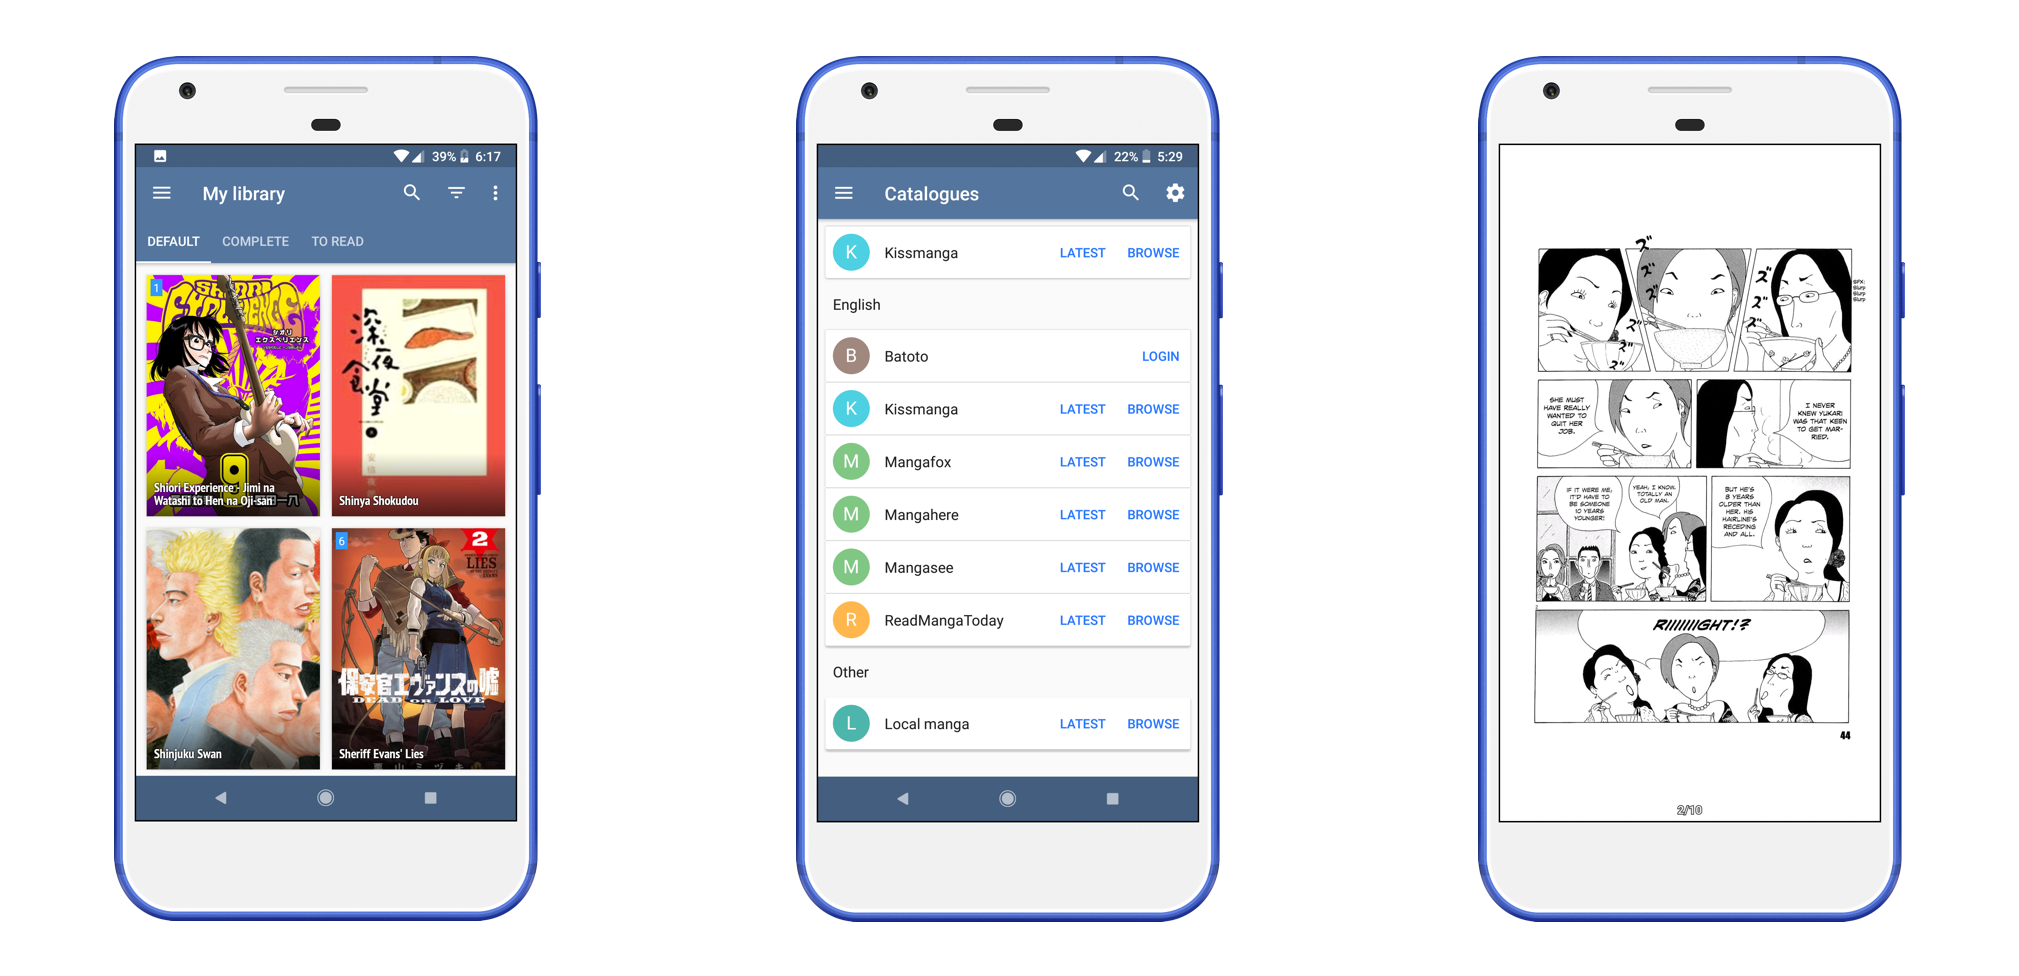
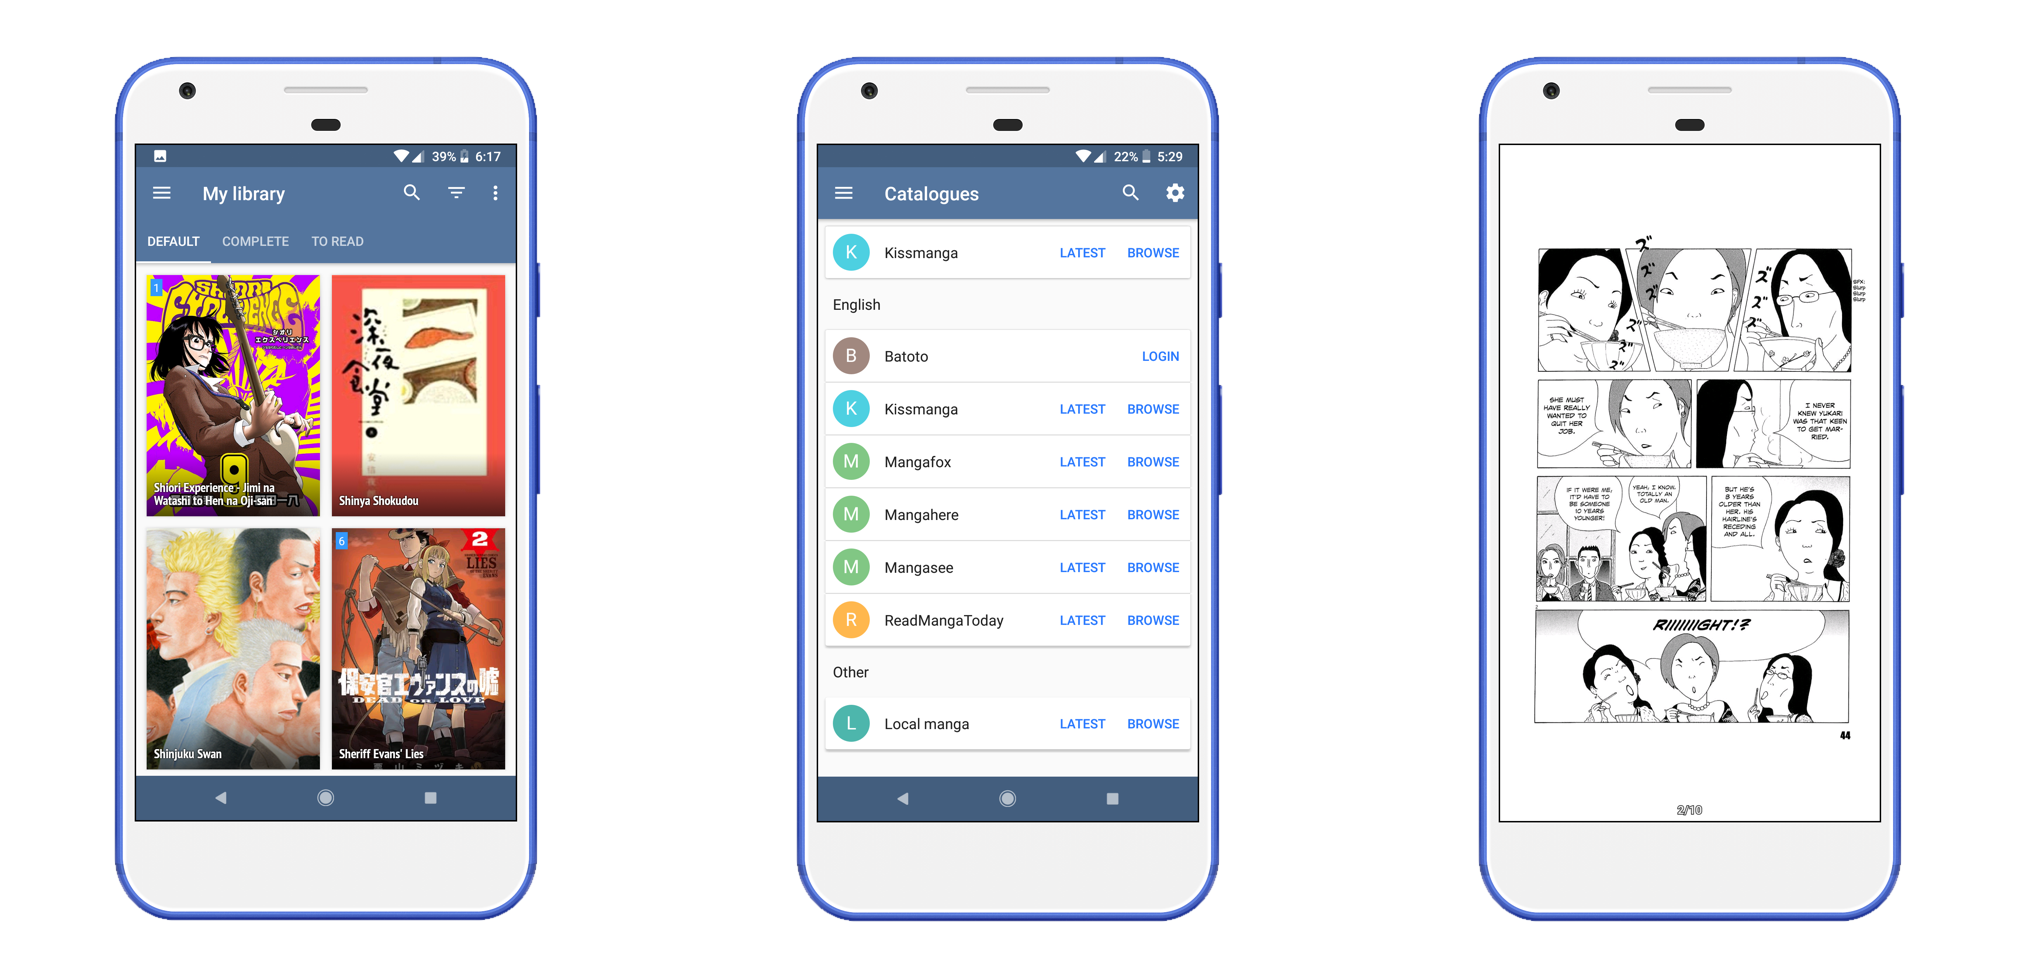
Update README.md (#1241)
Include CONTRIBUTING.md guidelines as collapseable elements.
Remove white background from screenshots
Optimize app-icon.png and screens.png using `optipng -o2`

diff --git a/README.md b/README.md
@@ -11,7 +11,7 @@ Tachiyomi is a free and open source manga reader for Android.
 ## Features
 
 Features include:
-* Online reading from sources like Batoto, KissManga, MangaFox, [and more](https://github.com/inorichi/tachiyomi-extensions)
+* Online reading from sources such as KissManga, MangaFox, [and more](https://github.com/inorichi/tachiyomi-extensions)
 * Local reading of downloaded manga
 * Configurable reader with multiple viewers, reading directions and other settings
 * MyAnimeList, AniList, and Kitsu support
@@ -27,7 +27,39 @@ If you want to try new features before they get to the stable release, you can d
 
 ## Issues, Feature Requests and Contributing
 
-If you want to open an issue, please read [contributing guidelines](https://github.com/inorichi/tachiyomi/blob/master/.github/CONTRIBUTING.md). Your issue may be closed otherwise.
+Please me sure to read the full guidelines. Your issue may be closed without warning if you do not.
+
+<details><summary>Issues</summary>
+
+1. **Before reporting a new issue, take a look at the [FAQ](https://github.com/inorichi/tachiyomi/wiki/FAQ), the [changelog](https://github.com/inorichi/tachiyomi/releases) and the already opened [issues](https://github.com/inorichi/tachiyomi/issues).**
+2. If you are unsure, ask here: [![Discord](https://img.shields.io/discord/349436576037732353.svg)](https://discord.gg/WrBkRk4)
+
+</details>
+
+<details><summary>Bugs</summary>
+
+* Include version (Setting > About > Version)
+ * If not latest, try updating, it may have already been solved
+ * Dev version is equal to the number of commits as seen in the main page
+* Include steps to reproduce (if not obvious from description)
+* Include screenshot (if needed)
+* If it could be device-dependent, try reproducing on another device (if possible)
+* For large logs use http://pastebin.com/ (or similar)
+* Don't group unrelated requests into one issue
+
+DO: https://github.com/inorichi/tachiyomi/issues/24 https://github.com/inorichi/tachiyomi/issues/71
+
+DON'T: https://github.com/inorichi/tachiyomi/issues/75
+
+</details>
+
+<details><summary>Feature Requests</summary>
+
+* Write a detailed issue, explaning what it should do or how. Avoid writing just "like X app does"
+* Include screenshot (if needed)
+
+Catalogue requests should be created at https://github.com/inorichi/tachiyomi-extensions, they do not belong in this repository.
+</details>
 
 ## FAQ
 

diff --git a/.github/ISSUE_TEMPLATE.md b/.github/ISSUE_TEMPLATE.md
@@ -1,1 +1,13 @@
-**Please read https://github.com/inorichi/tachiyomi/blob/master/.github/CONTRIBUTING.md before posting**
+**Please fill out this form and remove the first two lines before posting.**
+**If your issue is a request for a catalogue it belongs here https://github.com/inorichi/tachiyomi-extensions/**
+**App version:**
+
+**Issue/Request:**
+
+**Steps to reproduce (if applicable)**
+
+ 1.
+ 2.
+ 3.
+
+**Other details:**
